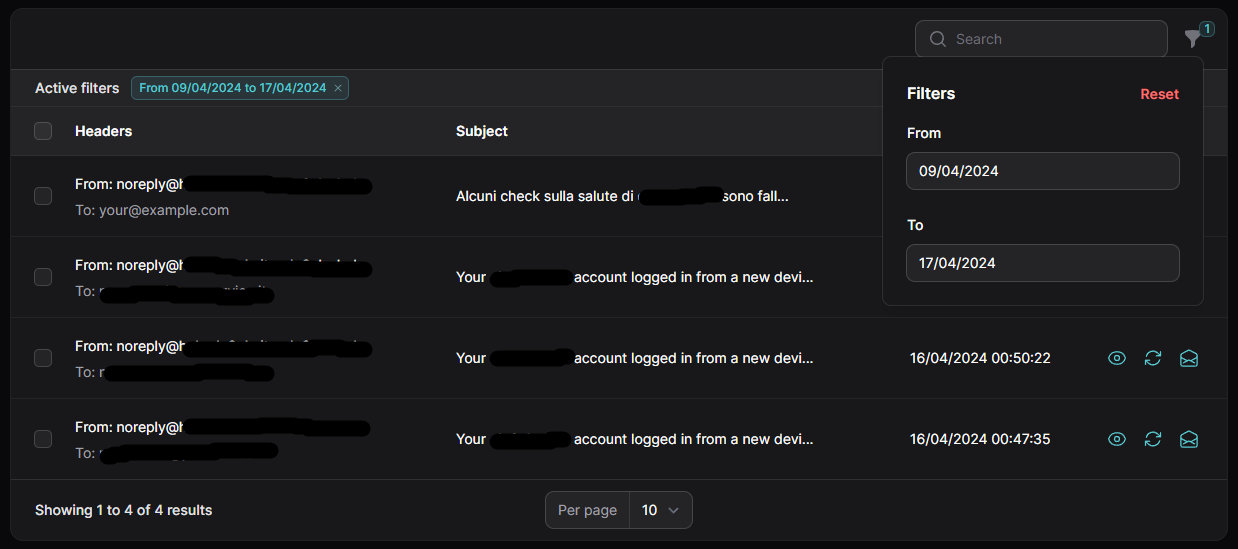
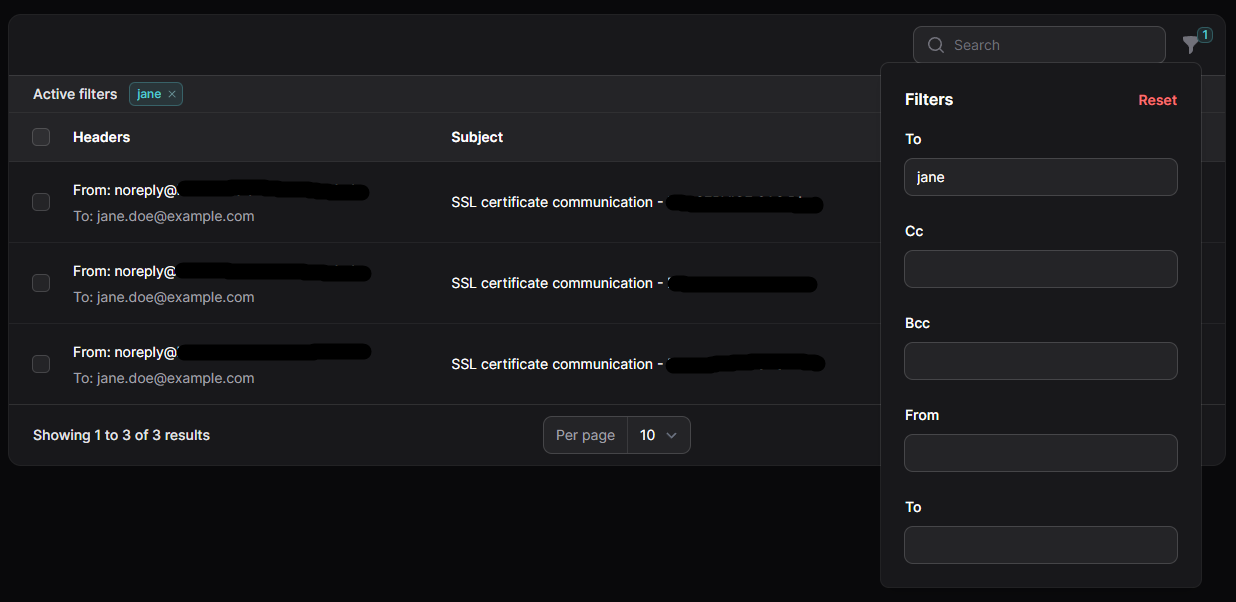
Customizable table search fields from config. Added new advanced filter for table. Autoload model prune command for schedule. Fixed keep_email_for_days retrive from config for Email model pruneable method. Updated README with Version Compatibility section. Updated screenshots.

diff --git a/src/Filament/Resources/EmailResource.php b/src/Filament/Resources/EmailResource.php
@@ -23,6 +23,7 @@ use Illuminate\Support\Carbon;
 use Illuminate\Support\Facades\Config;
 use Illuminate\Support\Facades\Log;
 use Illuminate\Support\Facades\Mail;
+use Illuminate\Support\Str;
 use RickDBCN\FilamentEmail\Filament\Resources\EmailResource\Pages\ListEmails;
 use RickDBCN\FilamentEmail\Filament\Resources\EmailResource\Pages\ViewEmail;
 use RickDBCN\FilamentEmail\Mail\ResendMail;
@@ -122,7 +123,7 @@ class EmailResource extends Resource
                     ->icon('heroicon-o-eye')
                     ->iconSize(IconSize::Medium)
                     ->modalFooterActions(
-                        fn ($action): array => [
+                        fn($action): array => [
                             $action->getModalCancelAction(),
                         ])
                     ->fillForm(function ($record) {
@@ -174,25 +175,27 @@ class EmailResource extends Resource
                     ->tooltip(__('filament-email::filament-email.update_and_resend_email_heading'))
                     ->modalHeading(__('filament-email::filament-email.update_and_resend_email_heading'))
                     ->form([
-                        TextInput::make('to')
+                        TagsInput::make('to')
                             ->label(__('filament-email::filament-email.to'))
-                            ->default(fn ($record): string => $record->to)
-                            ->email()
-                            ->required(),
+                            ->placeholder(__('filament-email::filament-email.insert_multiple_email_placelholder'))
+                            ->nestedRecursiveRules([
+                                'email',
+                            ])
+                            ->default(fn($record): array => !empty($record->to) ? explode(',', $record->to) : []),
                         TagsInput::make('cc')
                             ->label(__('filament-email::filament-email.cc'))
                             ->placeholder(__('filament-email::filament-email.insert_multiple_email_placelholder'))
                             ->nestedRecursiveRules([
                                 'email',
                             ])
-                            ->default(fn ($record): array => ! empty($record->cc) ? explode(',', $record->cc) : []),
+                            ->default(fn($record): array => !empty($record->cc) ? explode(',', $record->cc) : []),
                         TagsInput::make('bcc')
                             ->label(__('filament-email::filament-email.bcc'))
                             ->placeholder(__('filament-email::filament-email.insert_multiple_email_placelholder'))
                             ->nestedRecursiveRules([
                                 'email',
                             ])
-                            ->default(fn ($record): array => ! empty($record->bcc) ? explode(',', $record->bcc) : []),
+                            ->default(fn($record): array => !empty($record->bcc) ? explode(',', $record->bcc) : []),
                     ])
                     ->action(function (Email $record, array $data) {
                         try {
@@ -218,9 +221,9 @@ class EmailResource extends Resource
             ])
             ->columns([
                 TextColumn::make('from')
-                    ->prefix(__('filament-email::filament-email.from').': ')
+                    ->prefix(__('filament-email::filament-email.from') . ': ')
                     ->label(__('filament-email::filament-email.header'))
-                    ->description(fn (Email $record): string => __('filament-email::filament-email.to').': '.$record->to)
+                    ->description(fn(Email $record): string => Str::limit(__('filament-email::filament-email.to') . ': ' . $record->to, 40))
                     ->searchable(),
                 TextColumn::make('subject')
                     ->label(__('filament-email::filament-email.subject'))
@@ -240,6 +243,15 @@ class EmailResource extends Resource
                 Filter::make('created_at')
                     ->form(function () {
                         return [
+                            TextInput::make('to')
+                                ->label(__('filament-email::filament-email.to'))
+                                ->email(),
+                            TextInput::make('cc')
+                                ->label(__('filament-email::filament-email.cc'))
+                                ->email(),
+                            TextInput::make('bcc')
+                                ->label(__('filament-email::filament-email.bcc'))
+                                ->email(),
                             DateTimePicker::make('created_from')
                                 ->label(__('filament-email::filament-email.from_filter'))
                                 ->native(false)
@@ -254,33 +266,58 @@ class EmailResource extends Resource
                                 ->time(false),
                         ];
                     })
-                    ->indicateUsing(function (array $data): ?string {
-                        if (! $data['created_from'] && ! $data['created_until']) {
-                            return null;
-                        }
-                        $filter = '';
+                    ->indicateUsing(function (array $data): array {
+                        $indicators = [];
                         $format = config('filament-email.resource.filter_date_format');
-                        if (! empty($data['created_from'])) {
+
+                        if (!empty($data['created_from'])) {
                             $from = Carbon::parse($data['created_from'])->format($format);
-                            $filter = __('filament-email::filament-email.from_filter')." $from";
-                        }
-                        if (! empty($data['created_until'])) {
-                            $to = Carbon::parse($data['created_until'])->format($format);
-                            $toText = __('filament-email::filament-email.to_filter');
-                            $filter .= (! empty($filter) ? ' '.strtolower($toText).' ' : $toText)."$to";
+                            $indicators['created'] = __('filament-email::filament-email.from_filter') . " $from";
                         }
 
-                        return $filter;
+                        if (!empty($data['created_until'])) {
+                            $to = Carbon::parse($data['created_until'])->format($format);
+                            $toText = __('filament-email::filament-email.to_filter');
+                            if (!empty($indicators['created'])) {
+                                $indicators['created'] .= ' ' . strtolower($toText) . " $to";
+                            } else {
+                                $indicators['created'] = "$toText $to";
+                            }
+
+                        }
+
+                        unset($data['created_from']);
+                        unset($data['created_until']);
+
+                        foreach ($data as $field => $value) {
+                            if ($data[$field] ?? null) {
+                                $indicators[$field] = $value;
+                            }
+                        }
+
+                        return $indicators;
                     })
                     ->query(function (Builder $query, array $data): Builder {
                         return $query
                             ->when(
+                                $data['to'],
+                                fn(Builder $query, $value): Builder => $query->where('to', 'like', "%$value%"),
+                            )
+                            ->when(
+                                $data['cc'],
+                                fn(Builder $query, $value): Builder => $query->where('cc', 'like', "%$value%"),
+                            )
+                            ->when(
+                                $data['bcc'],
+                                fn(Builder $query, $value): Builder => $query->where('bcc', 'like', "%$value%"),
+                            )
+                            ->when(
                                 $data['created_from'],
-                                fn (Builder $query, $date): Builder => $query->where('created_at', '>=', $date),
+                                fn(Builder $query, $value): Builder => $query->where('created_at', '>=', $value),
                             )
                             ->when(
                                 $data['created_until'],
-                                fn (Builder $query, $date): Builder => $query->where('created_at', '<=', $date),
+                                fn(Builder $query, $value): Builder => $query->where('created_at', '<=', $value),
                             );
                     }),
             ]);
@@ -298,7 +335,7 @@ class EmailResource extends Resource
     {
         $roles = config('filament-email.can_access.role') ?? [];
 
-        if (method_exists(auth()->user(), 'hasRole') && ! empty($roles)) {
+        if (method_exists(auth()->user(), 'hasRole') && !empty($roles)) {
             return auth()->user()->hasRole($roles);
         }
 

diff --git a/src/Models/Email.php b/src/Models/Email.php
@@ -2,11 +2,12 @@
 
 namespace RickDBCN\FilamentEmail\Models;
 
-use Illuminate\Database\Eloquent\Factories\HasFactory;
-use Illuminate\Database\Eloquent\Model;
-use Illuminate\Database\Eloquent\Prunable;
+use Illuminate\Support\Arr;
 use Illuminate\Support\Carbon;
 use Illuminate\Support\Facades\Config;
+use Illuminate\Database\Eloquent\Model;
+use Illuminate\Database\Eloquent\Prunable;
+use Illuminate\Database\Eloquent\Factories\HasFactory;
 
 /**
  * Email
@@ -31,18 +32,37 @@ class Email extends Model
 
     protected $guarded = [];
 
+    private $defaultSearchFields = [
+        'subject',
+        'from',
+        'to',
+    ];
+
     public function prunable()
     {
-        return static::where('created_at', '<=', now()->subDays(Config::get('filament-email-log.keep_email_for_days')));
+        return static::where('created_at', '<=', now()->subDays(Config::get('filament-email.keep_email_for_days')));
+    }
+
+    private function getTableColumns()
+    {
+        return $this->getConnection()->getSchemaBuilder()->getColumnListing($this->getTable());
+    }
+
+    private function getSearchableFields()
+    {
+        $fields = Config::get('filament-email.resource.table_search_fields', $this->defaultSearchFields);
+
+        return Arr::where($fields, function ($value, $key) {
+            return in_array($value, $this->getTableColumns());
+        });
     }
 
     public function scopeFilter($query, array $filters)
     {
         $query->when($filters['search'] ?? null, function ($query, $search) {
-            $query->where('to', 'like', "%$search%")
-                ->orWhere('from', 'like', "%$search%")
-                ->orWhere('subject', 'like', "%$search%");
-
+            foreach ($this->getSearchableFields() as $key => $field) {
+                $query->{$key > 0 ? 'orWhere' : 'where'}($field, 'LIKE', "%{$search}%");
+            }
         });
     }
 }

diff --git a/src/FilamentEmailServiceProvider.php b/src/FilamentEmailServiceProvider.php
@@ -2,9 +2,11 @@
 
 namespace RickDBCN\FilamentEmail;
 
-use RickDBCN\FilamentEmail\Providers\EmailMessageServiceProvider;
+use Illuminate\Support\Facades\Config;
 use Spatie\LaravelPackageTools\Package;
+use Illuminate\Console\Scheduling\Schedule;
 use Spatie\LaravelPackageTools\PackageServiceProvider;
+use RickDBCN\FilamentEmail\Providers\EmailMessageServiceProvider;
 
 class FilamentEmailServiceProvider extends PackageServiceProvider
 {
@@ -25,5 +27,15 @@ class FilamentEmailServiceProvider extends PackageServiceProvider
             ->hasMigration('create_filament_email_table');
 
         $this->app->register(EmailMessageServiceProvider::class);
+    }
+
+    public function bootingPackage()
+    {
+        $this->callAfterResolving(Schedule::class, function (Schedule $schedule) {
+            $class = get_class(new (Config::get('filament-email.resource.model')));
+            if (class_exists($class)) {
+                $schedule->command('model:prune --model="' . $class . '"')->daily();
+            }
+        });
     }
 }

diff --git a/config/filament-email.php b/config/filament-email.php
@@ -4,7 +4,6 @@ use RickDBCN\FilamentEmail\Filament\Resources\EmailResource;
 use RickDBCN\FilamentEmail\Models\Email;
 
 return [
-
     'resource' => [
         'class' => EmailResource::class,
         'model' => Email::class,
@@ -14,6 +13,13 @@ return [
         'default_sort_direction' => 'desc',
         'datetime_format' => 'Y-m-d H:i:s',
         'filter_date_format' => 'Y-m-d',
+        'table_search_fields' => [
+            'subject',
+            'from',
+            'to',
+            'cc',
+            'bcc',
+        ],
     ],
 
     'keep_email_for_days' => 60,

diff --git a/resources/lang/nl/filament-email.php b/resources/lang/nl/filament-email.php
@@ -7,7 +7,7 @@ return [
     'text' => 'Text',
     'raw' => 'Ruwe',
     'debug_info' => 'Foutopsporingsinformatie',
-    'cc' => 'CC',
+    'cc' => 'Cc',
     'to' => 'Aan',
     'from' => 'Van',
     'header' => 'Headers',
@@ -21,7 +21,7 @@ return [
     'to_filter' => 'Aan',
     'navigation_label' => 'E-mail Log',
     'navigation_group' => 'Admin',
-    'bcc' => 'BCC',
+    'bcc' => 'Bcc',
     'insert_multiple_email_placelholder' => 'Type een of meerdere e-mailadressen in',
     'update_and_resend_email_heading' => 'Bijwerken en e-mail opnieuw versturen',
 ];

diff --git a/resources/lang/it/filament-email.php b/resources/lang/it/filament-email.php
@@ -7,7 +7,7 @@ return [
     'text' => 'Testo',
     'raw' => 'Raw',
     'debug_info' => 'Info di debug',
-    'cc' => 'CC',
+    'cc' => 'Cc',
     'to' => 'A',
     'from' => 'Da',
     'header' => 'Intestazione',
@@ -21,7 +21,7 @@ return [
     'to_filter' => 'Al',
     'navigation_label' => 'E-mail Log',
     'navigation_group' => 'Admin',
-    'bcc' => 'BCC',
+    'bcc' => 'Bcc',
     'insert_multiple_email_placelholder' => 'Inserisci una o più e-mail',
     'update_and_resend_email_heading' => 'Modifica and re-invia e-mail',
 ];

diff --git a/resources/lang/en/filament-email.php b/resources/lang/en/filament-email.php
@@ -7,7 +7,7 @@ return [
     'text' => 'Text',
     'raw' => 'Raw',
     'debug_info' => 'Debug info',
-    'cc' => 'CC',
+    'cc' => 'Cc',
     'to' => 'To',
     'from' => 'From',
     'header' => 'Headers',
@@ -21,7 +21,7 @@ return [
     'to_filter' => 'To',
     'navigation_label' => 'E-mail Log',
     'navigation_group' => 'Admin',
-    'bcc' => 'BCC',
+    'bcc' => 'Bcc',
     'insert_multiple_email_placelholder' => 'Insert one or more e-mail',
     'update_and_resend_email_heading' => 'Update and resend e-mail',
 ];

diff --git a/README.md b/README.md
@@ -9,13 +9,6 @@
 
 Log all outgoing emails in your Laravel project within your Filament panel. You can also resend emails with 1-click in case your recipient hasn't received your email.
 
-## Version Compatibility
-
-| Plugin  | Filament | Laravel | PHP |
-| ------------- | ------------- | ------------- | -------------|
-| 1.x  | 3.x  | 10.x | 8.x |
-| 1.x  | 3.x  | 11.x | 8.2 \| 8.3 |
-
 ## Installation
 
 You can install the package via composer:
@@ -42,6 +35,36 @@ Register the plugin through your panel service provider:
 ->plugin(new \RickDBCN\FilamentEmail\FilamentEmail::make())
 ```
 
+## Configuration
+
+```php
+return [
+    'resource' => [
+        'class' => EmailResource::class,
+        'model' => Email::class,
+        'group' => null,
+        'sort' => null,
+        'default_sort_column' => 'created_at',
+        'default_sort_direction' => 'desc',
+        'datetime_format' => 'Y-m-d H:i:s',
+        'filter_date_format' => 'Y-m-d',
+        'table_search_fields' => [
+            'subject',
+            'from',
+            'to',
+            'cc',
+            'bcc',
+        ],
+    ],
+
+    'keep_email_for_days' => 60,
+    'label' => null,
+
+    'can_access' => [
+        'role' => [],
+    ],
+];
+```
 
 ## Testing
 
